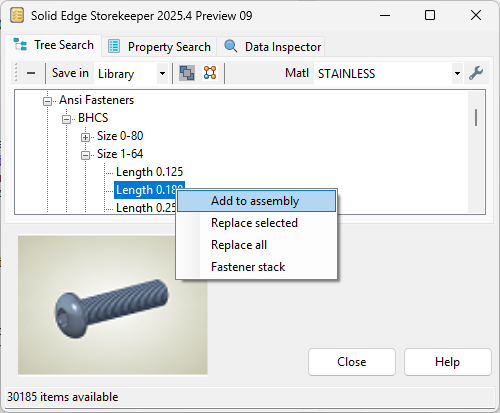
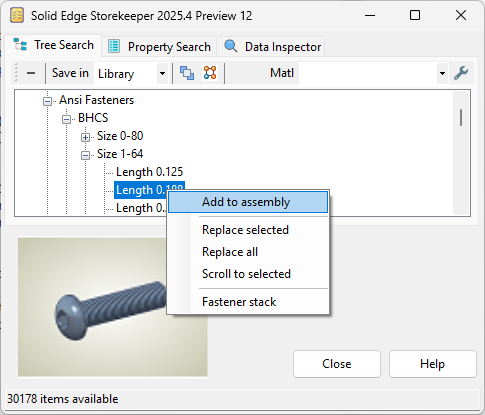
Scroll to selected

diff --git a/Readme.md b/Readme.md
@@ -47,6 +47,7 @@ For items like fasteners, use **Tree Search**.  Navigate to the desired item, se
 - `Add to assembly`  Adds the part to the assembly and activates the `Place part` command.
 - `Replace selected`  Replaces a selected part in the assembly.
 - `Replace all`  Replaces all occurrences of a selected part in the assembly.
+- `Scroll to selected`  Scrolls the tree to the selected part in the assembly.
 - `Fastener stack`  Opens the fastener stack dialog.  See the separate section below for details.
 
 ### Property Search
@@ -196,12 +197,12 @@ The material table is usually your normal SE material table.  However, for a qui
 	With the same situation as above, this option tells the program to leave the constraint in the failed state.  This is my preferred setting.  The pathfinder shows a red lightning bolt, alerting me that I need to fix something.
 	
   - `Do not add files in the Recently Used list`  
-	Enable this option to keep the program from adding newly-generated standard parts to the Most Recently Used list.  Note this function was added to Solid Edge in version 2020.  If you are running an earlier version, this option will have no effect.
+	Enable this option to keep the program from adding newly-generated standard parts to the Most Recently Used list.  Note this ability was added to Solid Edge in version 2020.  If you are running an earlier version, this option has no effect.
 	
   - `Include drawing of part if present`  
 	If a file in the templates directory has a drawing with the same name, the program can copy it to the library along with the part.  Enable this option to do so.
 
-  - `On top refresh time (s)`  
+  - `On top refresh time (milliseconds)`  
 	If the `Always on top` option is enabled, this setting controls the maximum time between checks.
 
   - `Check for new version at startup`  
@@ -240,7 +241,7 @@ Standard parts, especially fasteners, are frequently patterned after placement. 
 
 - It works with `Smart Patterns` and `User-Defined Patterns` (that's a hole with multiple hole circles in the profile).  It does not work with (the default) `Fast Patterns` unfortunately, unless you get lucky and pick the hole that was used to create the pattern.
 
-- It is sometimes unable to create a pattern when placing a fastener to a part located in a subasembly.  It sometimes helps to save the top-level assembly and try again.
+- It is sometimes unable to create a pattern when placing a fastener to a part located in a subasembly.  In some cases, it helps to save the top-level assembly and try again.
 
 ## FASTENER STACK
 

diff --git a/release_notes.md b/release_notes.md
@@ -88,6 +88,8 @@ Added an option to store property values of files in the library.  Set it on the
 
 - Added a shortcut menu for **Property Search** items  (Thank you yet again **@TeeVar!**).  It includes `Replace selected`, `Open in Solid Edge`, and a couple of others.
 
+- Added `Scroll to selected` to the shortcut menu for **Tree Search** (Thank you **@[Francesco Arfilli]!**).  This can be handy when you need to swap out a given part with another in the same family.
+
 - Added the ability to use special characters (`/`, `*`, `@`, etc.) in Xml tag definitions  (Thank you **@Seva!**).  Normally these are not allowed.  To get around it, special characters are replaced with compatible stand-ins where necessary.  If you look in `Storekeeper.xml`, you may see text like `.XmlComma.` or `.XmlOpeningBrace.`  Those are a couple of those stand-ins.
 
 - Temporarily disabled the `Pre-Populate` feature from the previous version (Sorry **@Seva!**).  It is not currently compatible with multiple materials per category.  In particular it had trouble when a material is valid for one selected item, but not another.  You can still use the previous version when that feature is needed.
